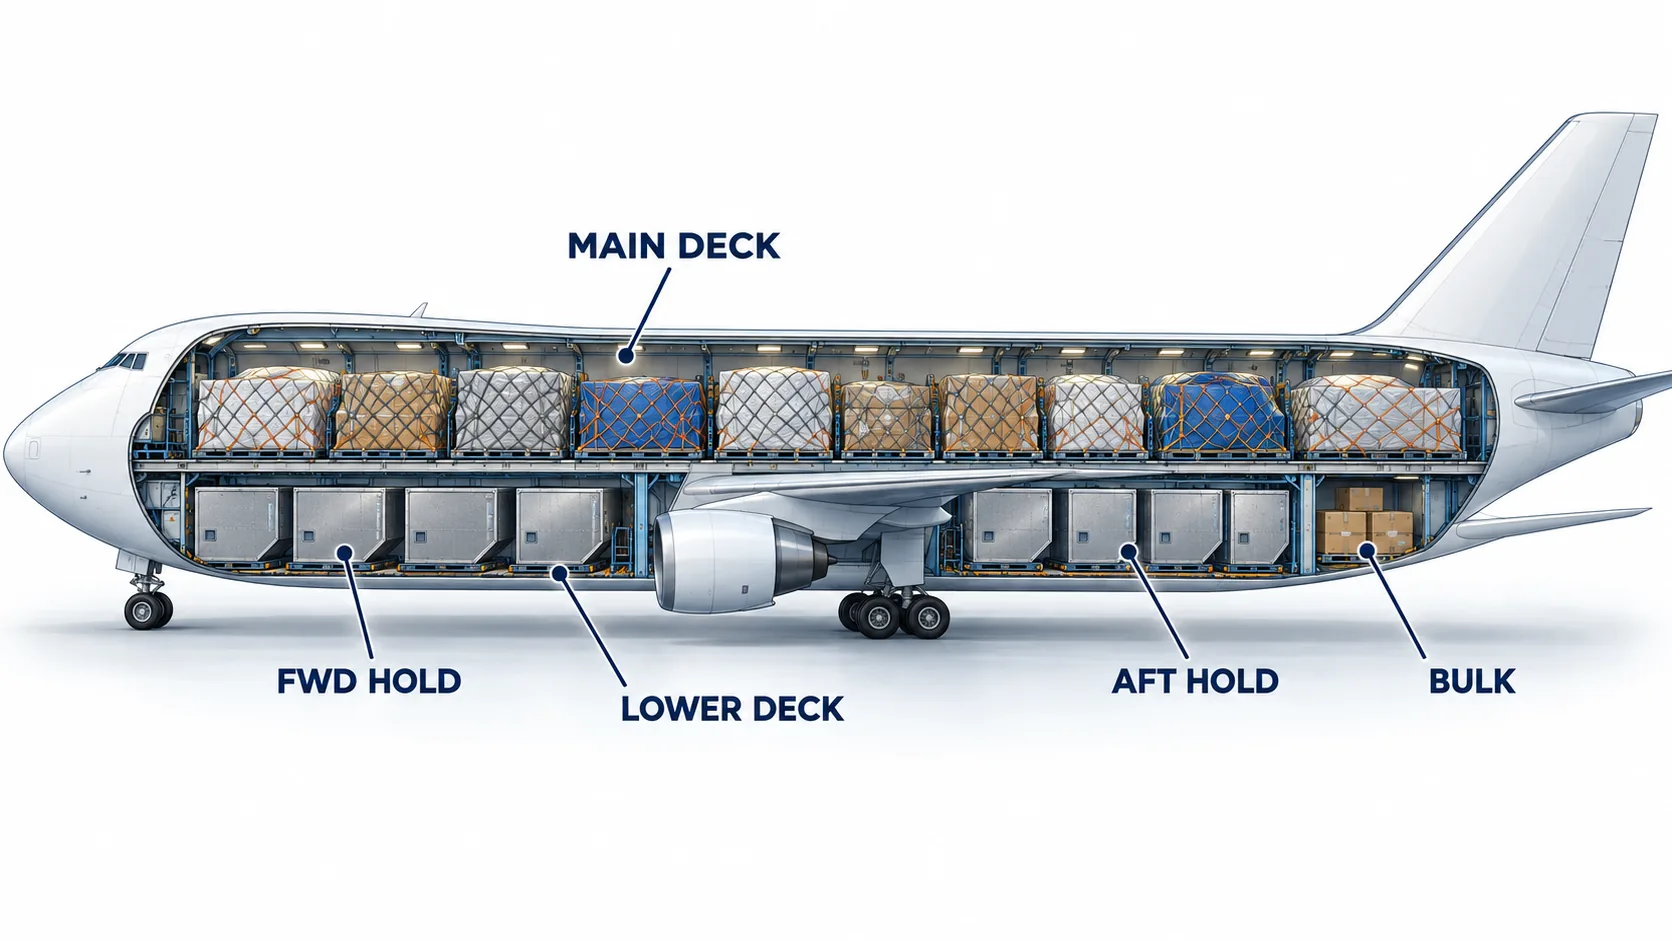
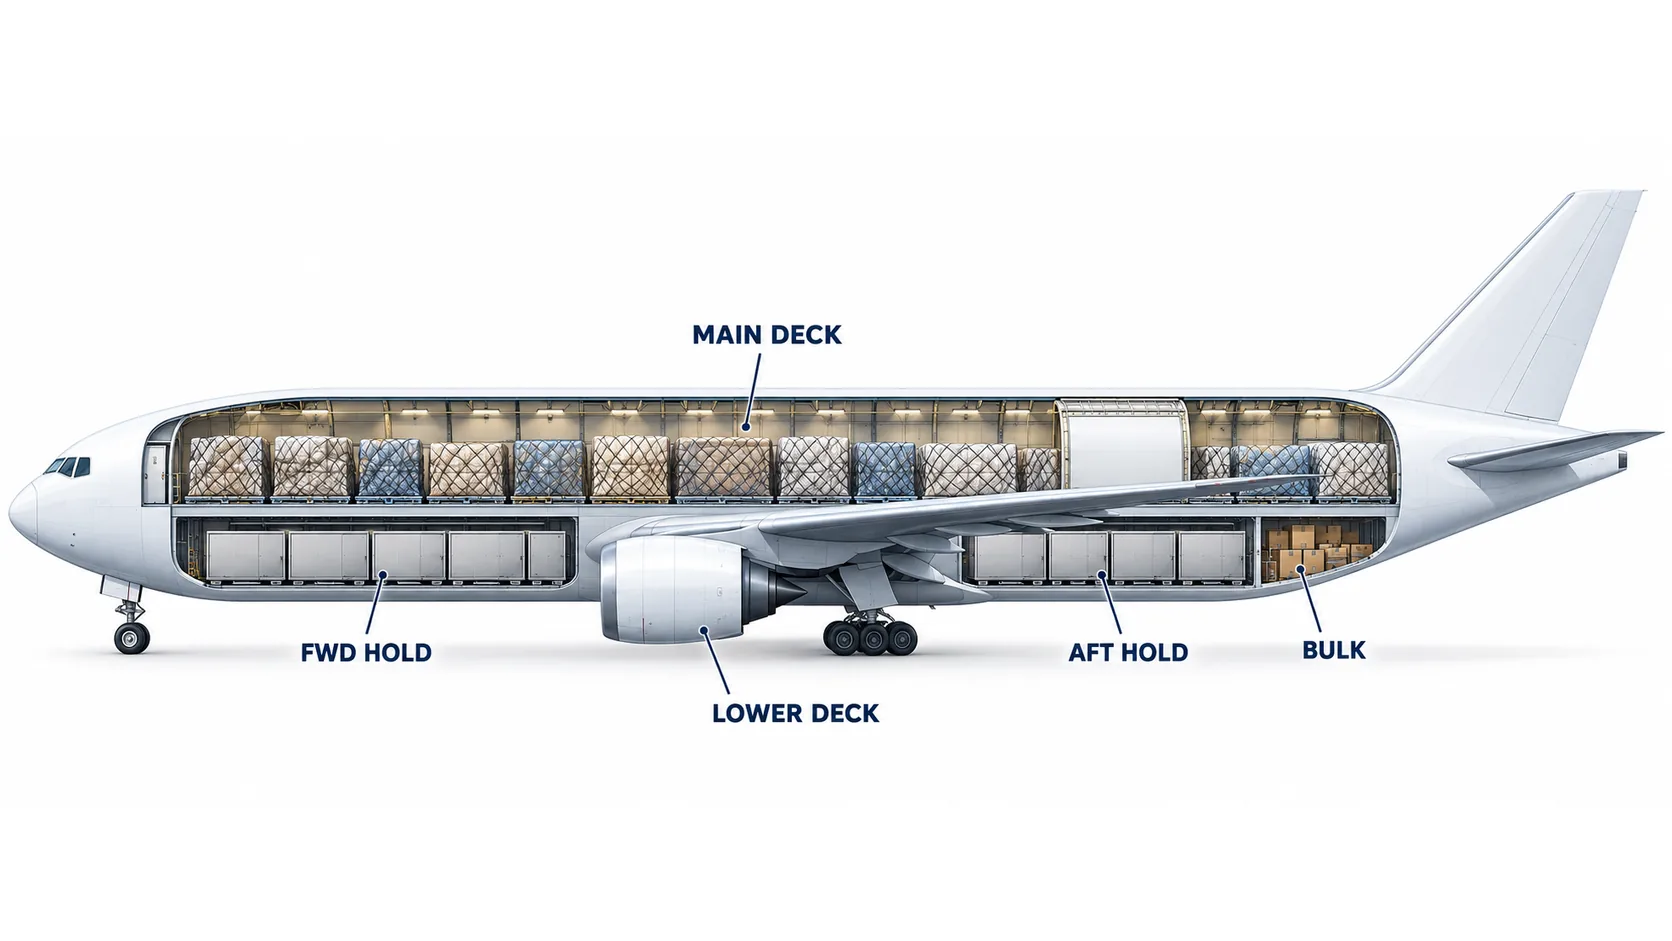
Redraw ULD illustrations and add container shapes to code examples
Codex redrew the six ULD illustrations after an expert review: air
pallets are now thin flat plates, containers follow real proportions,
lower-deck containers face the right way in the cutaway, and the
loading scene puts the main-deck door on the left aft side and the
lower-deck doors on the right side.

The ULD code reading table gains a shape column drawn to a common
scale from published dimensions, and the types document carries the
Wikimedia Commons ULD size diagram (CC BY-SA 4.0, credited).

diff --git a/uld-docs/uld-code.html b/uld-docs/uld-code.html
@@ -105,24 +105,25 @@
 
 <h3>읽기 연습</h3>
 <table class="lib-table">
-<thead><tr><th>코드</th><th>첫째 글자</th><th>둘째 글자</th><th>셋째 글자</th><th>한 줄 뜻</th></tr></thead>
+<thead><tr><th>코드</th><th>모양</th><th>첫째 글자</th><th>둘째 글자</th><th>셋째 글자</th><th>한 줄 뜻</th></tr></thead>
 <tbody>
-<tr><td><b>AKE</b></td><td>A 인증 컨테이너</td><td>K 60.4 × 61.5 in</td><td>E 로어덱 윤곽(64 in)</td><td>LD3. 광동체 로어덱의 반폭 컨테이너</td></tr>
-<tr><td><b>AKN</b></td><td>A 인증 컨테이너</td><td>K 60.4 × 61.5 in</td><td>N 로어덱 윤곽(E와 같은 치수)</td><td>포크리프트 포켓이 있는 LD3</td></tr>
-<tr><td><b>AKH</b></td><td>A 인증 컨테이너</td><td>K 60.4 × 61.5 in</td><td>H 로어덱 윤곽(45 in)</td><td>LD3-45. A320 계열 협동체 로어덱용</td></tr>
-<tr><td><b>AAP</b></td><td>A 인증 컨테이너</td><td>A 88 × 125 in</td><td>P 로어덱 윤곽(64 in)</td><td>LD9. 88인치 바닥의 로어덱 컨테이너</td></tr>
-<tr><td><b>AMA</b></td><td>A 인증 컨테이너</td><td>M 96 × 125 in</td><td>A 메인덱 윤곽(96 in)</td><td>M1. 96인치 바닥의 메인덱 10피트 컨테이너</td></tr>
-<tr><td><b>AMJ</b></td><td>A 인증 컨테이너</td><td>M 96 × 125 in</td><td>J 메인덱 윤곽(96 in)</td><td>96인치 바닥의 메인덱 10피트 컨테이너(AMA와 윤곽 구분이 다름)</td></tr>
-<tr><td><b>PAG</b></td><td>P 인증 팔레트</td><td>A 88 × 125 in</td><td>G 고정·인증 구분</td><td>88인치 팔레트</td></tr>
-<tr><td><b>PAJ</b></td><td>P 인증 팔레트</td><td>A 88 × 125 in</td><td>J 고정·인증 구분</td><td>88인치 팔레트. PAG와 같아 보여도 기종 매뉴얼로 확인</td></tr>
-<tr><td><b>PMC</b></td><td>P 인증 팔레트</td><td>M 96 × 125 in</td><td>C 고정·인증 구분</td><td>96인치 팔레트</td></tr>
-<tr><td><b>PLA</b></td><td>P 인증 팔레트</td><td>L 60.4 × 125 in</td><td>A 고정·인증 구분</td><td>하프 팔레트(주로 로어덱)</td></tr>
-<tr><td><b>PGA</b></td><td>P 인증 팔레트</td><td>G 96 × 238.5 in</td><td>A 고정·인증 구분</td><td>20피트 메인덱 팔레트</td></tr>
-<tr><td><b>RKN</b></td><td>R 인증 온도관리 컨테이너</td><td>K 60.4 × 61.5 in</td><td>N 로어덱 윤곽</td><td>LD3 크기의 온도관리 컨테이너</td></tr>
-<tr><td><b>RAP</b></td><td>R 인증 온도관리 컨테이너</td><td>A 88 × 125 in</td><td>P 로어덱 윤곽(64 in)</td><td>LD9 크기의 온도관리 컨테이너</td></tr>
-<tr><td><b>DPE</b></td><td>D 비인증 컨테이너</td><td>P 47 × 60.4 in</td><td>E 로어덱 윤곽</td><td>LD2. 비인증 로어덱 반폭 컨테이너</td></tr>
+<tr><td><b>AKE</b></td><td class="uld-shape"><svg viewBox="0 0 70 56" width="70" height="56" role="img" aria-label="AKE 앞면 외형"><line x1="2" y1="53" x2="68" y2="53" stroke="#9aa7b3" stroke-width="1"/><polygon points="14.5,53.0 46.4,53.0 55.5,42.8 55.5,19.7 14.5,19.7" fill="#dbe8f6" stroke="#123d70" stroke-width="1.6"/></svg></td><td>A 인증 컨테이너</td><td>K 60.4 × 61.5 in</td><td>E 로어덱 윤곽(64 in)</td><td>LD3. 광동체 로어덱의 반폭 컨테이너</td></tr>
+<tr><td><b>AKN</b></td><td class="uld-shape"><svg viewBox="0 0 70 56" width="70" height="56" role="img" aria-label="AKN 앞면 외형"><line x1="2" y1="53" x2="68" y2="53" stroke="#9aa7b3" stroke-width="1"/><polygon points="14.5,53.0 46.4,53.0 55.5,42.8 55.5,19.7 14.5,19.7" fill="#dbe8f6" stroke="#123d70" stroke-width="1.6"/></svg></td><td>A 인증 컨테이너</td><td>K 60.4 × 61.5 in</td><td>N 로어덱 윤곽(E와 같은 치수)</td><td>포크리프트 포켓이 있는 LD3</td></tr>
+<tr><td><b>AKH</b></td><td class="uld-shape"><span style="color:#9aa7b3">—</span></td><td>A 인증 컨테이너</td><td>K 60.4 × 61.5 in</td><td>H 로어덱 윤곽(45 in)</td><td>LD3-45. A320 계열 협동체 로어덱용</td></tr>
+<tr><td><b>AAP</b></td><td class="uld-shape"><svg viewBox="0 0 70 56" width="70" height="56" role="img" aria-label="AAP 앞면 외형"><line x1="2" y1="53" x2="68" y2="53" stroke="#9aa7b3" stroke-width="1"/><polygon points="2.5,53.0 67.5,53.0 67.5,19.7 2.5,19.7" fill="#dbe8f6" stroke="#123d70" stroke-width="1.6"/></svg></td><td>A 인증 컨테이너</td><td>A 88 × 125 in</td><td>P 로어덱 윤곽(64 in)</td><td>LD9. 88인치 바닥의 로어덱 컨테이너</td></tr>
+<tr><td><b>AMA</b></td><td class="uld-shape"><svg viewBox="0 0 70 56" width="70" height="56" role="img" aria-label="AMA 앞면 외형"><line x1="2" y1="53" x2="68" y2="53" stroke="#9aa7b3" stroke-width="1"/><polygon points="2.5,53.0 67.5,53.0 67.5,3.1 2.5,3.1" fill="#dbe8f6" stroke="#123d70" stroke-width="1.6"/></svg></td><td>A 인증 컨테이너</td><td>M 96 × 125 in</td><td>A 메인덱 윤곽(96 in)</td><td>M1. 96인치 바닥의 메인덱 10피트 컨테이너</td></tr>
+<tr><td><b>AMJ</b></td><td class="uld-shape"><span style="color:#9aa7b3">—</span></td><td>A 인증 컨테이너</td><td>M 96 × 125 in</td><td>J 메인덱 윤곽(96 in)</td><td>96인치 바닥의 메인덱 10피트 컨테이너(AMA와 윤곽 구분이 다름)</td></tr>
+<tr><td><b>PAG</b></td><td class="uld-shape"><svg viewBox="0 0 70 56" width="70" height="56" role="img" aria-label="PAG 얇은 판 모양"><rect x="2.5" y="50" width="65.0" height="3" fill="#123d70"/></svg></td><td>P 인증 팔레트</td><td>A 88 × 125 in</td><td>G 고정·인증 구분</td><td>88인치 팔레트</td></tr>
+<tr><td><b>PAJ</b></td><td class="uld-shape"><svg viewBox="0 0 70 56" width="70" height="56" role="img" aria-label="PAJ 얇은 판 모양"><rect x="2.5" y="50" width="65.0" height="3" fill="#123d70"/></svg></td><td>P 인증 팔레트</td><td>A 88 × 125 in</td><td>J 고정·인증 구분</td><td>88인치 팔레트. PAG와 같아 보여도 기종 매뉴얼로 확인</td></tr>
+<tr><td><b>PMC</b></td><td class="uld-shape"><svg viewBox="0 0 70 56" width="70" height="56" role="img" aria-label="PMC 얇은 판 모양"><rect x="2.5" y="50" width="65.0" height="3" fill="#123d70"/></svg></td><td>P 인증 팔레트</td><td>M 96 × 125 in</td><td>C 고정·인증 구분</td><td>96인치 팔레트</td></tr>
+<tr><td><b>PLA</b></td><td class="uld-shape"><svg viewBox="0 0 70 56" width="70" height="56" role="img" aria-label="PLA 얇은 판 모양"><rect x="2.5" y="50" width="65.0" height="3" fill="#123d70"/></svg></td><td>P 인증 팔레트</td><td>L 60.4 × 125 in</td><td>A 고정·인증 구분</td><td>하프 팔레트(주로 로어덱)</td></tr>
+<tr><td><b>PGA</b></td><td class="uld-shape"><svg viewBox="0 0 70 56" width="70" height="56" role="img" aria-label="PGA 얇은 판 모양"><rect x="2.0" y="50" width="66.0" height="3" fill="#123d70"/></svg></td><td>P 인증 팔레트</td><td>G 96 × 238.5 in</td><td>A 고정·인증 구분</td><td>20피트 메인덱 팔레트</td></tr>
+<tr><td><b>RKN</b></td><td class="uld-shape"><svg viewBox="0 0 70 56" width="70" height="56" role="img" aria-label="RKN 앞면 외형"><line x1="2" y1="53" x2="68" y2="53" stroke="#9aa7b3" stroke-width="1"/><polygon points="14.5,53.0 46.4,53.0 55.5,42.8 55.5,19.7 14.5,19.7" fill="#dbe8f6" stroke="#123d70" stroke-width="1.6"/><rect x="18.5" y="33.0" width="6" height="8" fill="#2b6cb8"/></svg></td><td>R 인증 온도관리 컨테이너</td><td>K 60.4 × 61.5 in</td><td>N 로어덱 윤곽</td><td>LD3 크기의 온도관리 컨테이너</td></tr>
+<tr><td><b>RAP</b></td><td class="uld-shape"><svg viewBox="0 0 70 56" width="70" height="56" role="img" aria-label="RAP 앞면 외형"><line x1="2" y1="53" x2="68" y2="53" stroke="#9aa7b3" stroke-width="1"/><polygon points="2.5,53.0 67.5,53.0 67.5,19.7 2.5,19.7" fill="#dbe8f6" stroke="#123d70" stroke-width="1.6"/></svg></td><td>R 인증 온도관리 컨테이너</td><td>A 88 × 125 in</td><td>P 로어덱 윤곽(64 in)</td><td>LD9 크기의 온도관리 컨테이너</td></tr>
+<tr><td><b>DPE</b></td><td class="uld-shape"><span style="color:#9aa7b3">—</span></td><td>D 비인증 컨테이너</td><td>P 47 × 60.4 in</td><td>E 로어덱 윤곽</td><td>LD2. 비인증 로어덱 반폭 컨테이너</td></tr>
 </tbody>
 </table>
+<p class="lib-source">모양 칸은 앞에서 본 외형을 같은 축척으로 그린 개략도입니다. LD3(AKE·AKN·RKN)는 바닥 61.5 in, 윗폭 79 in, 높이 64 in로 한쪽 위가 바깥으로 넓어지는 날개 모양이고(AirBridgeCargo BUP 지침 4.5.3), AAP·RAP는 125 × 64 in 직사각형, AMA는 125 × 96 in 직육면체입니다. 팔레트는 두께 몇 cm의 얇은 알루미늄 판 한 장이어서 막대로 표시했습니다. AKH·AMJ·DPE는 외형 치수를 공개 자료로 다 확인하지 못해 그리지 않았습니다.</p>
 <p>팔레트 셋째 글자(G·J·C·A 등)가 구체적으로 어떤 고정 시스템·인증 등급에 해당하는지는 공개 자료로 확인하지 못했습니다. 실무에서는 항공사가 기종·위치별로 받는 팔레트 형식을 정해 두므로, 예약할 때 항공사에 확인하는 것이 확실합니다.</p>
 <p class="lib-source">출처: Identifying a ULD(VRR) — <a href="https://vrr.aero/knowledge-center/everything-about-ulds/uld-id-code/" target="_blank" rel="noopener noreferrer">VRR</a>, Pallets and containers(Boeing, 2012) — <a href="https://web.archive.org/web/20240219062433/https://www.boeing.com/content/dam/boeing/boeingdotcom/company/about_bca/pdf/CargoPalletsContainers.pdf" target="_blank" rel="noopener noreferrer">Boeing(웹 아카이브)</a>, Unit Load Device(대한항공 카고) — <a href="https://cargo.koreanair.com/en/UnitLoadDevice" target="_blank" rel="noopener noreferrer">Korean Air Cargo</a></p>
 

diff --git a/uld-docs/uld-types.html b/uld-docs/uld-types.html
@@ -1,4 +1,5 @@
 <p>실무에서 자주 보는 ULD 컨테이너·팔레트·온도관리 ULD·말 운송 스톨의 바닥 치수, 높이, 최대 총중량(MGW, Maximum Gross Weight), 자중(tare), 용적, 탑재 위치를 표로 정리합니다. 수치는 Boeing, ULD 제조사, 항공사(Lufthansa Cargo, 대한항공, 아시아나항공, 싱가포르항공, 베트남항공) 공개 자료로 교차 확인했고, 자료마다 다른 값은 그대로 밝혔습니다. 코드 읽는 법은 <a data-doc="uld-code">ULD 코드 읽는 법</a>에서 다룹니다.</p>
+<figure class="lib-figure"><img src="/images/uld/wikimedia-uld-sizes.png" alt="LD3, LD3-45, LD1, LD2, LD4, LD6, PLA, P1P, P6P 등 ULD의 크기를 인치로 표시한 입체 비교도" loading="lazy" decoding="async" width="932" height="675" style="aspect-ratio:932/675;object-fit:contain;background:#d6d6d6"><figcaption><span>외부 자료</span> 주요 로어덱 ULD와 팔레트의 크기 비교(인치). 그림: Marc Lacoste, <a href="https://commons.wikimedia.org/wiki/File:Unit_load_device_sizes.png" target="_blank" rel="noopener noreferrer">「Unit load device sizes」</a>, Wikimedia Commons, <a href="https://creativecommons.org/licenses/by-sa/4.0/deed.ko" target="_blank" rel="noopener noreferrer">CC BY-SA 4.0</a>. 원본을 바꾸지 않고 실었습니다.</figcaption></figure>
 
 <p class="lib-disclaimer">같은 형식 코드라도 최대 총중량, 자중, 용적은 제조사·제품·항공사와 실리는 위치(메인덱·로어덱, 기종)에 따라 다르게 공개됩니다. 아래 표는 공개 자료의 값을 비교한 것이며, 실제 예약·빌드업에는 이용하는 항공사의 최신 사양과 탑재 제한을 확인하시기 바랍니다.</p>
 

diff --git a/uld-library.html b/uld-library.html
@@ -24,7 +24,7 @@
   <section class="library-view" id="libraryView" aria-label="항공 ULD 자료"></section>
 </main>
 <footer class="site-footer"><div class="footer-copy"><div class="footer-brand"><strong>Logistics Library</strong></div><div class="footer-meta"><span class="footer-visitors" aria-label="방문자 수"><span>오늘 <b id="todayVisitors">-</b></span><span>누적 <b id="totalVisitors">-</b></span></span><i>·</i><span>MADE BY JUAN.HJLEE · WITH SUPPORT FROM MARU.DEV</span><small>© 2026 ONHARU. All rights reserved.</small></div></div><details class="footer-family"><summary>Family Site</summary><div class="menu-list"><a href="https://cubestow.onharu.app/">CubeStow<small>컨테이너 적재 시뮬레이션</small></a><a href="https://diary.onharu.app/">온하루 다이어리<small>바탕화면 달력·일기</small></a><a href="https://lottolab.onharu.app/">LottoLab<small>로또 통계·구매 기록</small></a><a href="https://onharu.app/">ONHARU<small>포트폴리오</small></a></div></details></footer>
-<script src="/uld-library.js?v=20261006-01"></script>
+<script src="/uld-library.js?v=20261006-02"></script>
 <script src="/site-shell.js?v=20261003-01"></script>
 </body>
 </html>

diff --git a/uld-library.js b/uld-library.js
@@ -5,7 +5,7 @@
 (function () {
   const LIBRARY_ORIGIN = 'https://logistics.onharu.app';
   const BASE = '/library/air-uld';
-  const DOCS_VERSION = '20261006-01';
+  const DOCS_VERSION = '20261006-02';
   const routed = location.pathname.startsWith(BASE);
   const link = id => (routed ? `${BASE}/${id}` : `${location.pathname}?doc=${id}`);
   const home = routed ? BASE : location.pathname;

diff --git a/images/_generated-manifest.md b/images/_generated-manifest.md
@@ -15,9 +15,9 @@
 - `incoterms/journey-stages.webp` — A fully framed seven-stage door-to-door panorama follows a continuous route from seller factory and truck loading through export customs, port crane, ocean carriage, import customs, and buyer warehouse. Labels: `SELLER`, `EXPORT`, `MAIN CARRIAGE`, `IMPORT`, `BUYER`.
 - `incoterms/any-mode-vs-sea.webp` — A multimodal group of truck, train, aircraft, and container ship is contrasted with a bulk carrier and river barge at a quay. Labels: `ANY MODE`, `SEA & INLAND WATERWAY`.
 - `incoterms/cost-risk-documents.webp` — Seller and buyer figures flank three directional icons representing coins, a protected package, and approved documents. Labels: `SELLER`, `COSTS`, `RISK`, `DOCUMENTS`, `BUYER`.
-- `uld/uld-hero.webp` — Two cargo workers secure a rounded carton load under a net beside lower-deck containers and a widebody freighter nose in a bright terminal. Labels: none.
-- `uld/freighter-cutaway.webp` — A conceptual widebody freighter cutaway shows netted main-deck pallets, forward and aft lower holds, and a small rear bulk compartment. Labels: `MAIN DECK`, `LOWER DECK`, `FWD HOLD`, `AFT HOLD`, `BULK`.
-- `uld/uld-family.webp` — Four separated ULD examples compare a lower-deck container, netted pallet, tall main-deck container, and temperature-controlled container. Labels: `CONTAINER`, `PALLET`, `MAIN DECK CONTAINER`, `COOL CONTAINER`.
-- `uld/buildup.webp` — Two workers build and tension a netted pallet on a roller-bed scale in front of a fuselage contour gauge. Labels: `NET`, `CONTOUR GAUGE`, `SCALE`.
-- `uld/loading.webp` — A main-deck scissor loader and a smaller lower-deck loader safely deliver secured ULDs to separate freighter cargo doors. Labels: none.
-- `uld/uld-inspection.webp` — A worker checks a bent pallet edge rail beside a dented lower-deck container with a blank red tag and neatly stored folded nets. Labels: none.
+- `uld/uld-hero.webp` — Two cargo workers secure a rounded carton load directly on a thin PMC plate while shoulder-high one-wing LD3 containers and a white freighter nose stand behind them. Labels: none.
+- `uld/freighter-cutaway.webp` — A left-side widebody freighter cutaway shows thin-plate netted loads on the main deck, rectangular LD3 side panels in the forward and aft lower holds, and loose boxes in the rear bulk compartment. Labels: `MAIN DECK`, `LOWER DECK`, `FWD HOLD`, `AFT HOLD`, `BULK`.
+- `uld/uld-family.webp` — A worker provides scale for an asymmetric shoulder-high LD3, a netted thin-sheet PMC, a taller rectangular AMA, and a refrigerated LD3. Labels: `CONTAINER`, `PALLET`, `MAIN DECK CONTAINER`, `COOL CONTAINER`.
+- `uld/buildup.webp` — Two workers place cartons and tension a net on a thin PMC plate over a roller-bed platform scale beneath a freestanding contour gauge. Labels: `NET`, `CONTOUR GAUGE`, `SCALE`.
+- `uld/loading.webp` — Separate panels show a left-side aft main-deck door receiving a thin-plate PMC and right-side lower doors receiving an LD3 ahead of the wing. Labels: `LEFT SIDE`, `RIGHT SIDE`.
+- `uld/uld-inspection.webp` — A worker examines the bent slim rail of an empty thin PMC sheet beside a dented one-wing LD3 with a blank red tag and stored folded nets. Labels: none.
